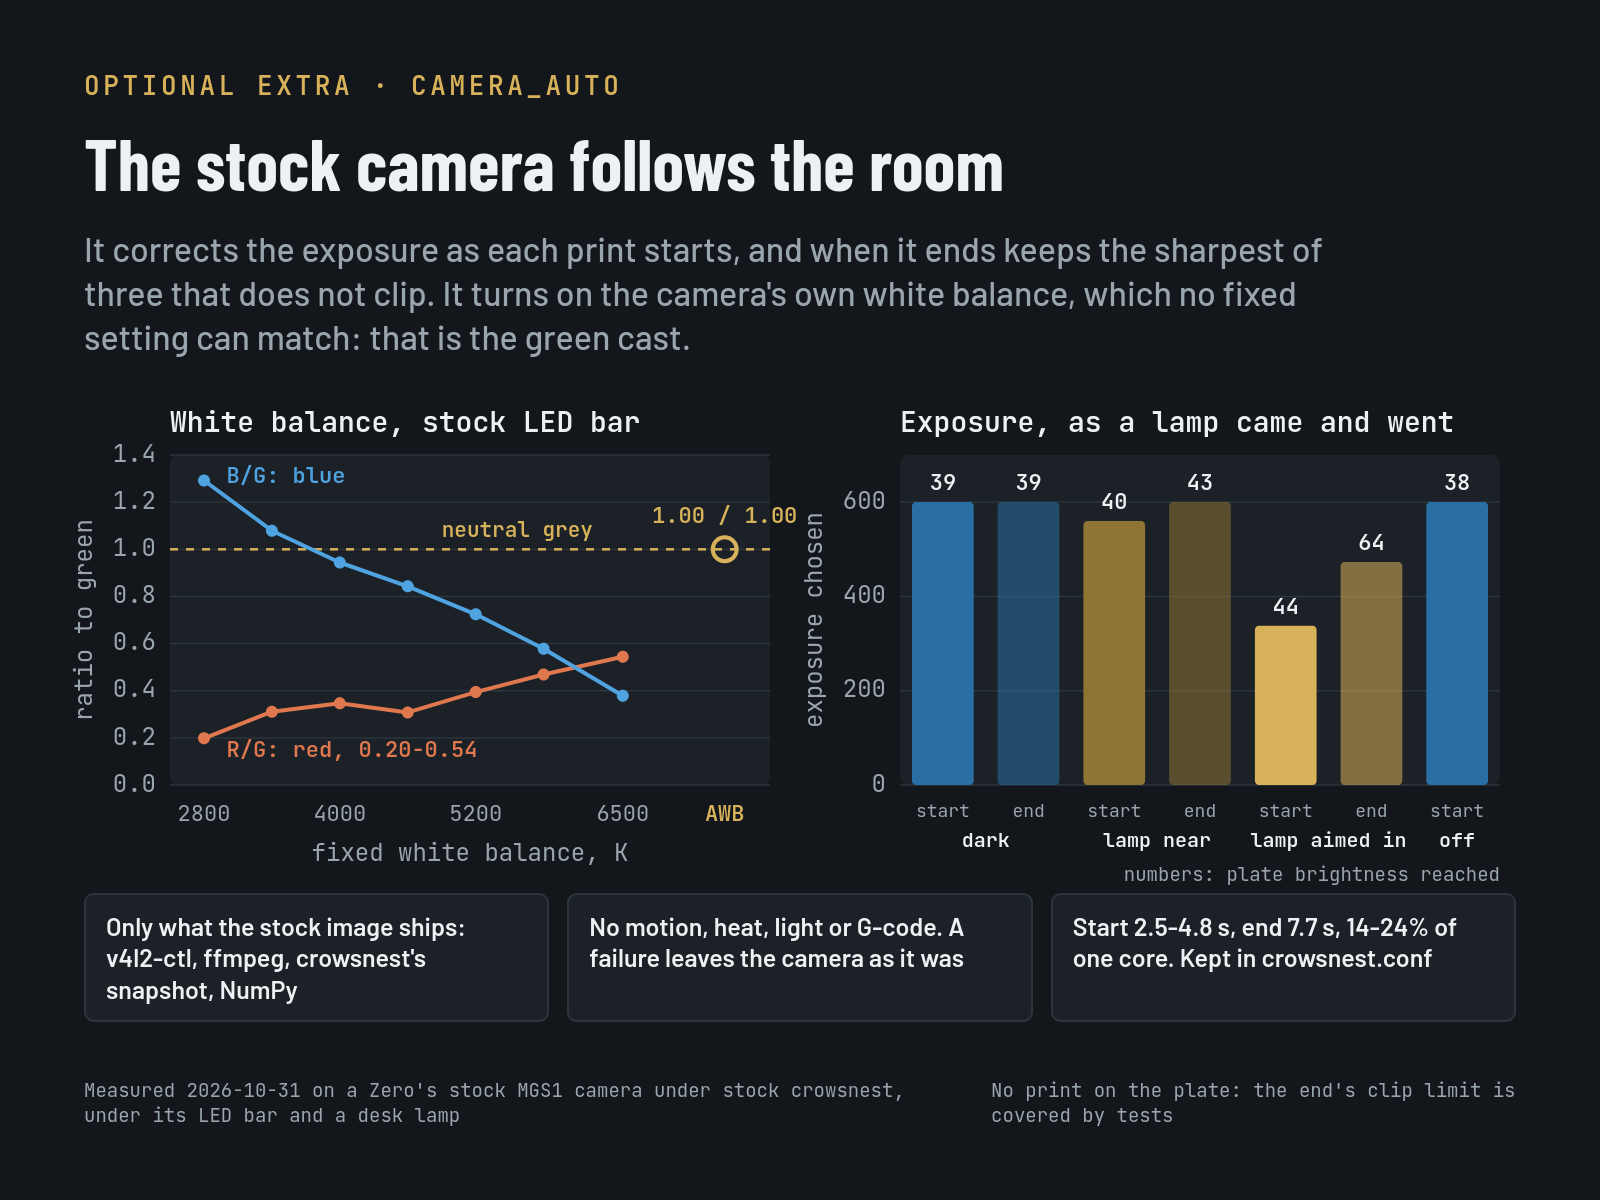
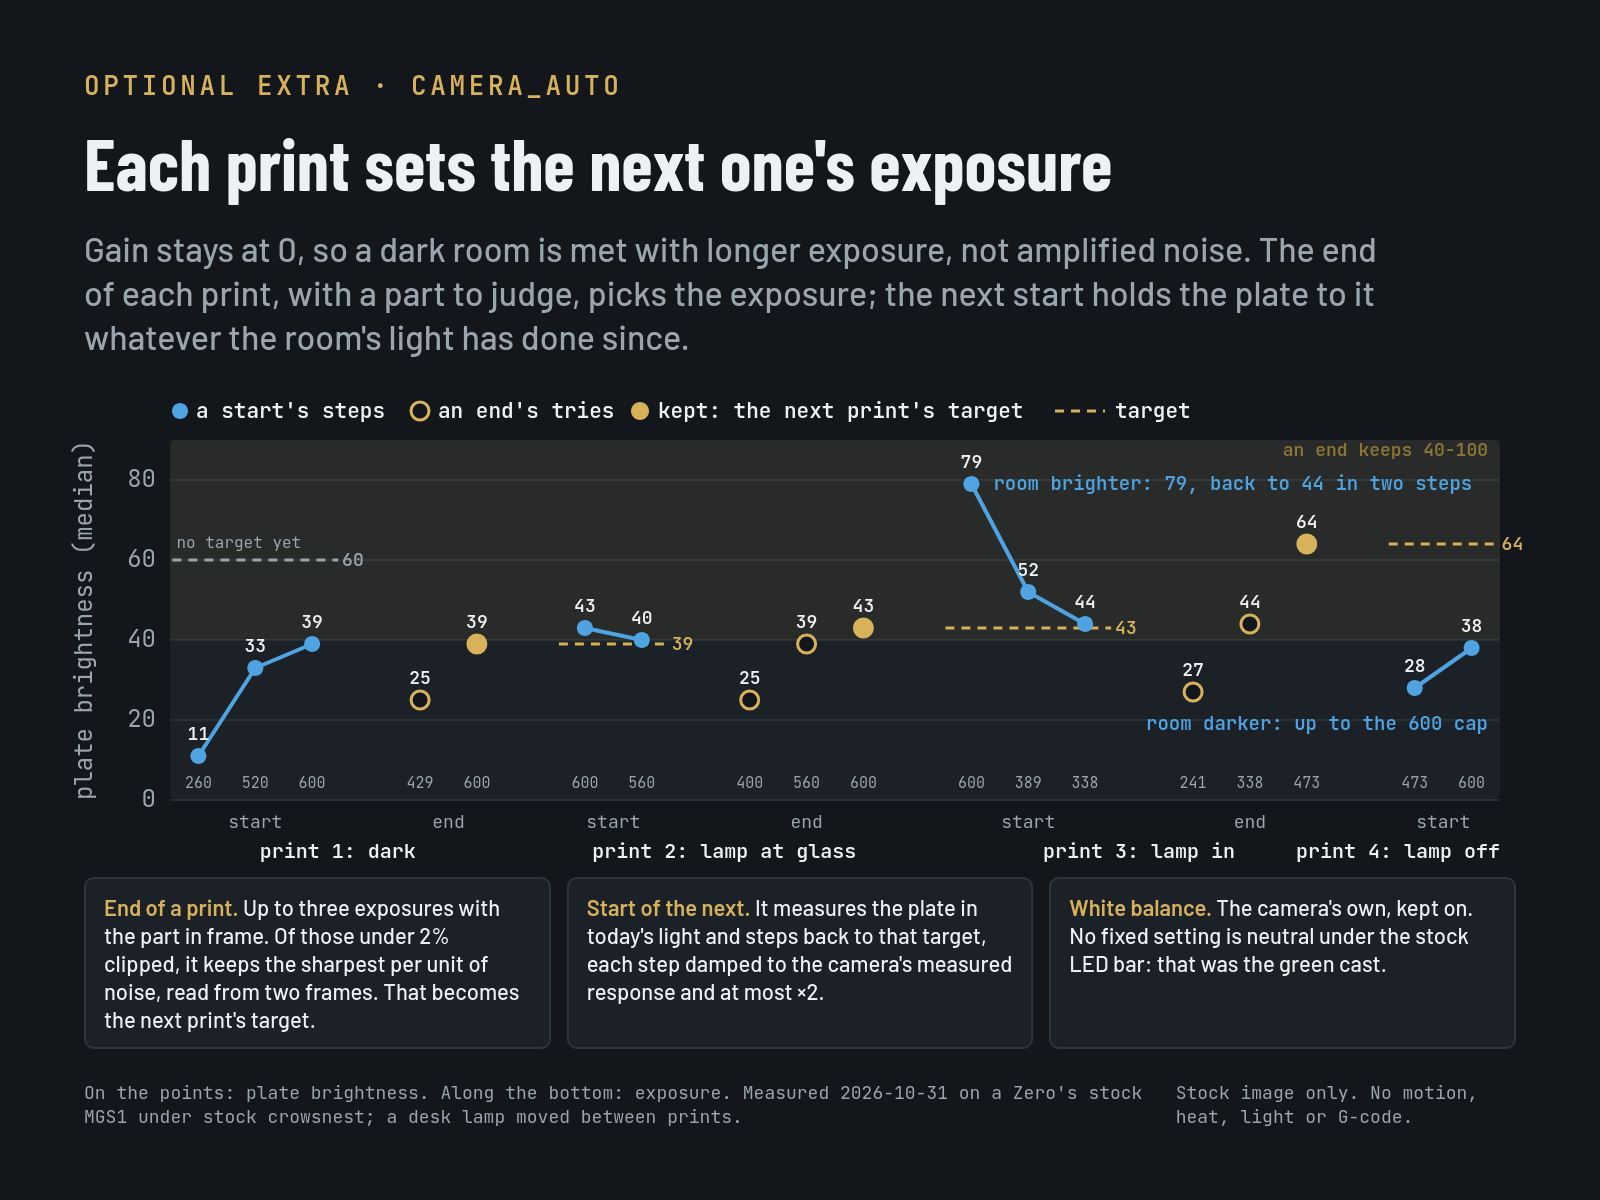
camera_auto figure: lead with exposure and print-to-print learning
Redrawn at the operator's direction: exposure and noise, and how each
print's end sets the next start, with white balance a line rather than a
plot.

One chart now follows four prints from the 10-31 lamp session, every step
as measured: each end tries up to three exposures with the part in frame
and keeps one (print 1's end tried two; a third would pass the 600 cap),
and the plate brightness it kept becomes the next start's target. With the
lamp aimed in, print 3's start read 79 and stepped back to 44 against 43;
with it off, print 4's start climbed to the cap at 38 against 64.

The text says how noise decides: gain stays at 0, so a dark room gets
longer exposure rather than amplified noise, and an end keeps the
sharpest per unit of noise (two frames' difference) under 2% clipped.
Per-candidate sharpness and noise were not logged in that test, so they
are stated, not plotted. tools/verify.py passes.

diff --git a/README.md b/README.md
@@ -36,7 +36,7 @@ are starting points, not evidence that a nozzle fits or has been flow-calibrated
 <img src="docs/images/exhaust.png" width="49%" alt="The PI-controlled exhaust against the stock rule, with the noise curve on the same fan axis">
 <img src="docs/images/cooldown.png" width="49%" alt="The controlled cooldown against the bed switched off, as stock does">
 <img src="docs/images/fan-strength.png" width="49%" alt="How much each fan pulls from the plate, behind the cooldown fan weighting">
-<img src="docs/images/camera-auto.png" width="49%" alt="camera_auto on a Zero's stock camera: under the stock LED bar no fixed white balance from 2800 to 6500 K is neutral, red to green stays 0.20 to 0.54, while the camera's own white balance reads 1.00 and 1.00; as a desk lamp came and went the start phase cut exposure from 600 to 338 and back, holding the plate's brightness near the last print's 39 to 44">
+<img src="docs/images/camera-auto.png" width="49%" alt="camera_auto over four prints on a Zero's stock camera as a desk lamp came and went: each print's end tries up to three exposures with the part in frame and keeps the sharpest per unit of noise under 2% clipped, and its plate brightness becomes the next start's target. With the lamp aimed in, the next start read 79 and stepped back to 44 against 43; with the lamp off it climbed to the 600 exposure cap. Gain stays at 0, and the camera's own white balance stays on">
 </p>
 
 ## Try the profiles

diff --git a/CHANGELOG.md b/CHANGELOG.md
@@ -78,7 +78,7 @@
 
 ### Added: the stock camera's exposure follows the room
 
-<p><img src="docs/images/camera-auto.png" alt="camera_auto on a Zero's stock camera: under the stock LED bar no fixed white balance from 2800 to 6500 K is neutral, red to green stays 0.20 to 0.54, while the camera's own white balance reads 1.00 and 1.00; as a desk lamp came and went the start phase cut exposure from 600 to 338 and back, holding the plate's brightness near the last print's 39 to 44"></p>
+<p><img src="docs/images/camera-auto.png" alt="camera_auto over four prints on a Zero's stock camera as a desk lamp came and went: each print's end tries up to three exposures with the part in frame and keeps the sharpest per unit of noise under 2% clipped, and its plate brightness becomes the next start's target. With the lamp aimed in, the next start read 79 and stepped back to 44 against 43; with the lamp off it climbed to the 600 exposure cap. Gain stays at 0, and the camera's own white balance stays on"></p>
 
 - **`camera_auto`, an optional Python extra for the stock camera under stock
   crowsnest.** It uses only what the stock image ships. `_PREFLIGHT` starts it
